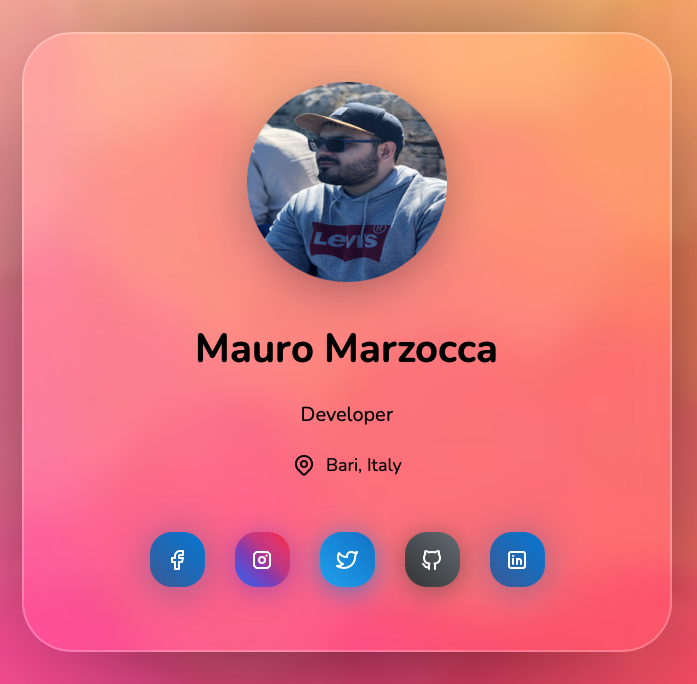
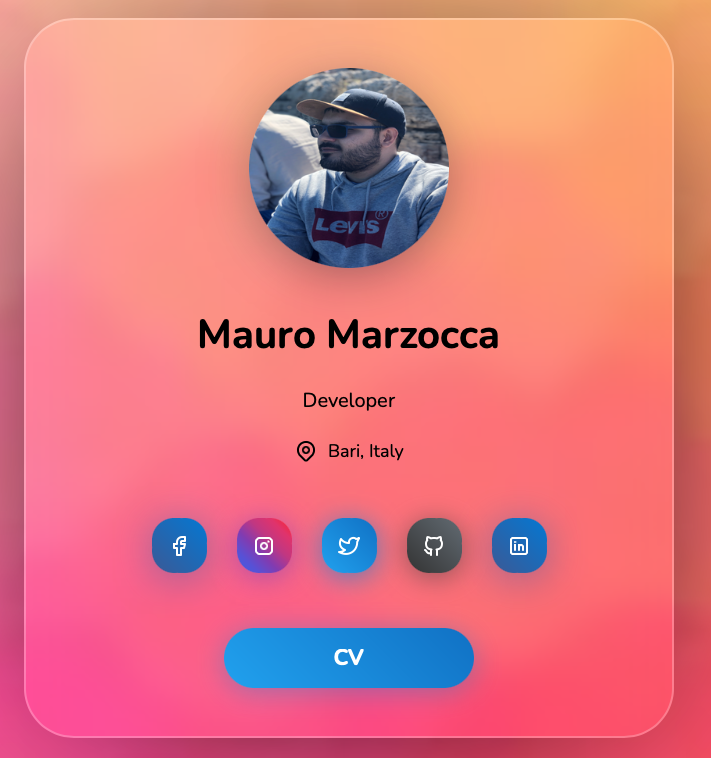
Update files

diff --git a/index.html b/index.html
@@ -30,7 +30,7 @@
                 <span> Bari, Italy</span>
             </div>
         </div>
-<!--
+        <!--
         <div class="profile-card__info">
             <div>
                 <div>850</div>
@@ -86,22 +86,24 @@
                 </svg>
             </a>
             <a href="https://www.linkedin.com/in/mauro-marzocca-365193121/" class="linkedin" target="_blank">
-                <svg xmlns="http://www.w3.org/2000/svg" class="icon icon-tabler icon-tabler-brand-linkedin" width="24" height="24" viewBox="0 0 24 24" stroke-width="2" stroke="currentColor" fill="none" stroke-linecap="round" stroke-linejoin="round">
+                <svg xmlns="http://www.w3.org/2000/svg" class="icon icon-tabler icon-tabler-brand-linkedin" width="24"
+                    height="24" viewBox="0 0 24 24" stroke-width="2" stroke="currentColor" fill="none"
+                    stroke-linecap="round" stroke-linejoin="round">
                     <path stroke="none" d="M0 0h24v24H0z" fill="none"></path>
                     <rect x="4" y="4" width="16" height="16" rx="2"></rect>
                     <line x1="8" y1="11" x2="8" y2="16"></line>
                     <line x1="8" y1="8" x2="8" y2="8.01"></line>
                     <line x1="12" y1="16" x2="12" y2="11"></line>
                     <path d="M16 16v-3a2 2 0 0 0 -4 0"></path>
-                 </svg>
-        </a>
+                </svg>
+            </a>
         </div>
-<!--
+
         <div class="profile-card__actions">
-            <button class="blue"> Send Message </button>
-            <button class="orange"> Follow Me </button>
+                <a button class="blue" href="https://mauromarzocca.github.io/CV/" target="_blank"> CV </button> </a>
+            <!-- <button class="orange"> Follow Me </button> -->
         </div>
-    -->
+
     </div>
 </body>
 

diff --git a/style.scss b/style.scss
@@ -170,6 +170,37 @@ body {
             gap: 1.5rem;
         }
 
+        &>a {
+            font-weight: bold;
+            font-size: 22px;
+            padding: 15px 0;
+            min-width: 250px;
+            border-radius: 50px;
+            color: white;
+            cursor: pointer;
+            transition: all .2s;
+
+            @media screen and (max-width: 768px) {
+                min-width: 170px;
+            }
+
+            @media screen and (min-width: 576px) {
+                &:hover {
+                    transform: translateY(-5px);
+                }
+            }
+
+            &.blue {
+                background: linear-gradient(45deg, #1da1f2, #0e71c8);
+                box-shadow: 0 4px 30px rgba(19, 127, 212, 0.4);
+                text-align: center;
+
+                &:hover {
+                    box-shadow: 0 7px 30px rgba(19, 127, 212, 0.75);
+                }
+            }
+        }
+        
         &>button {
             font-weight: bold;
             font-size: 22px;

diff --git a/style.css b/style.css
@@ -166,6 +166,34 @@ body::before {
     gap: 1.5rem;
   }
 }
+.profile-card__actions > a {
+  font-weight: bold;
+  font-size: 22px;
+  padding: 15px 0;
+  min-width: 250px;
+  border-radius: 50px;
+  color: white;
+  cursor: pointer;
+  transition: all 0.2s;
+}
+@media screen and (max-width: 768px) {
+  .profile-card__actions > a {
+    min-width: 170px;
+  }
+}
+@media screen and (min-width: 576px) {
+  .profile-card__actions > a:hover {
+    transform: translateY(-5px);
+  }
+}
+.profile-card__actions > a.blue {
+  background: linear-gradient(45deg, #1da1f2, #0e71c8);
+  box-shadow: 0 4px 30px rgba(19, 127, 212, 0.4);
+  text-align: center;
+}
+.profile-card__actions > a.blue:hover {
+  box-shadow: 0 7px 30px rgba(19, 127, 212, 0.75);
+}
 .profile-card__actions > button {
   font-weight: bold;
   font-size: 22px;

diff --git a/README.md b/README.md
@@ -27,4 +27,4 @@ Voglio che il modulo della mail apra direttamente l'applicazione della mail
 
 - 25/9 : Creazione Card
 - 26/9 : Collegati i profili, Bug Fix e creazione del Readme
-- 
+- 27/9 : Aggiornato il Readme 
